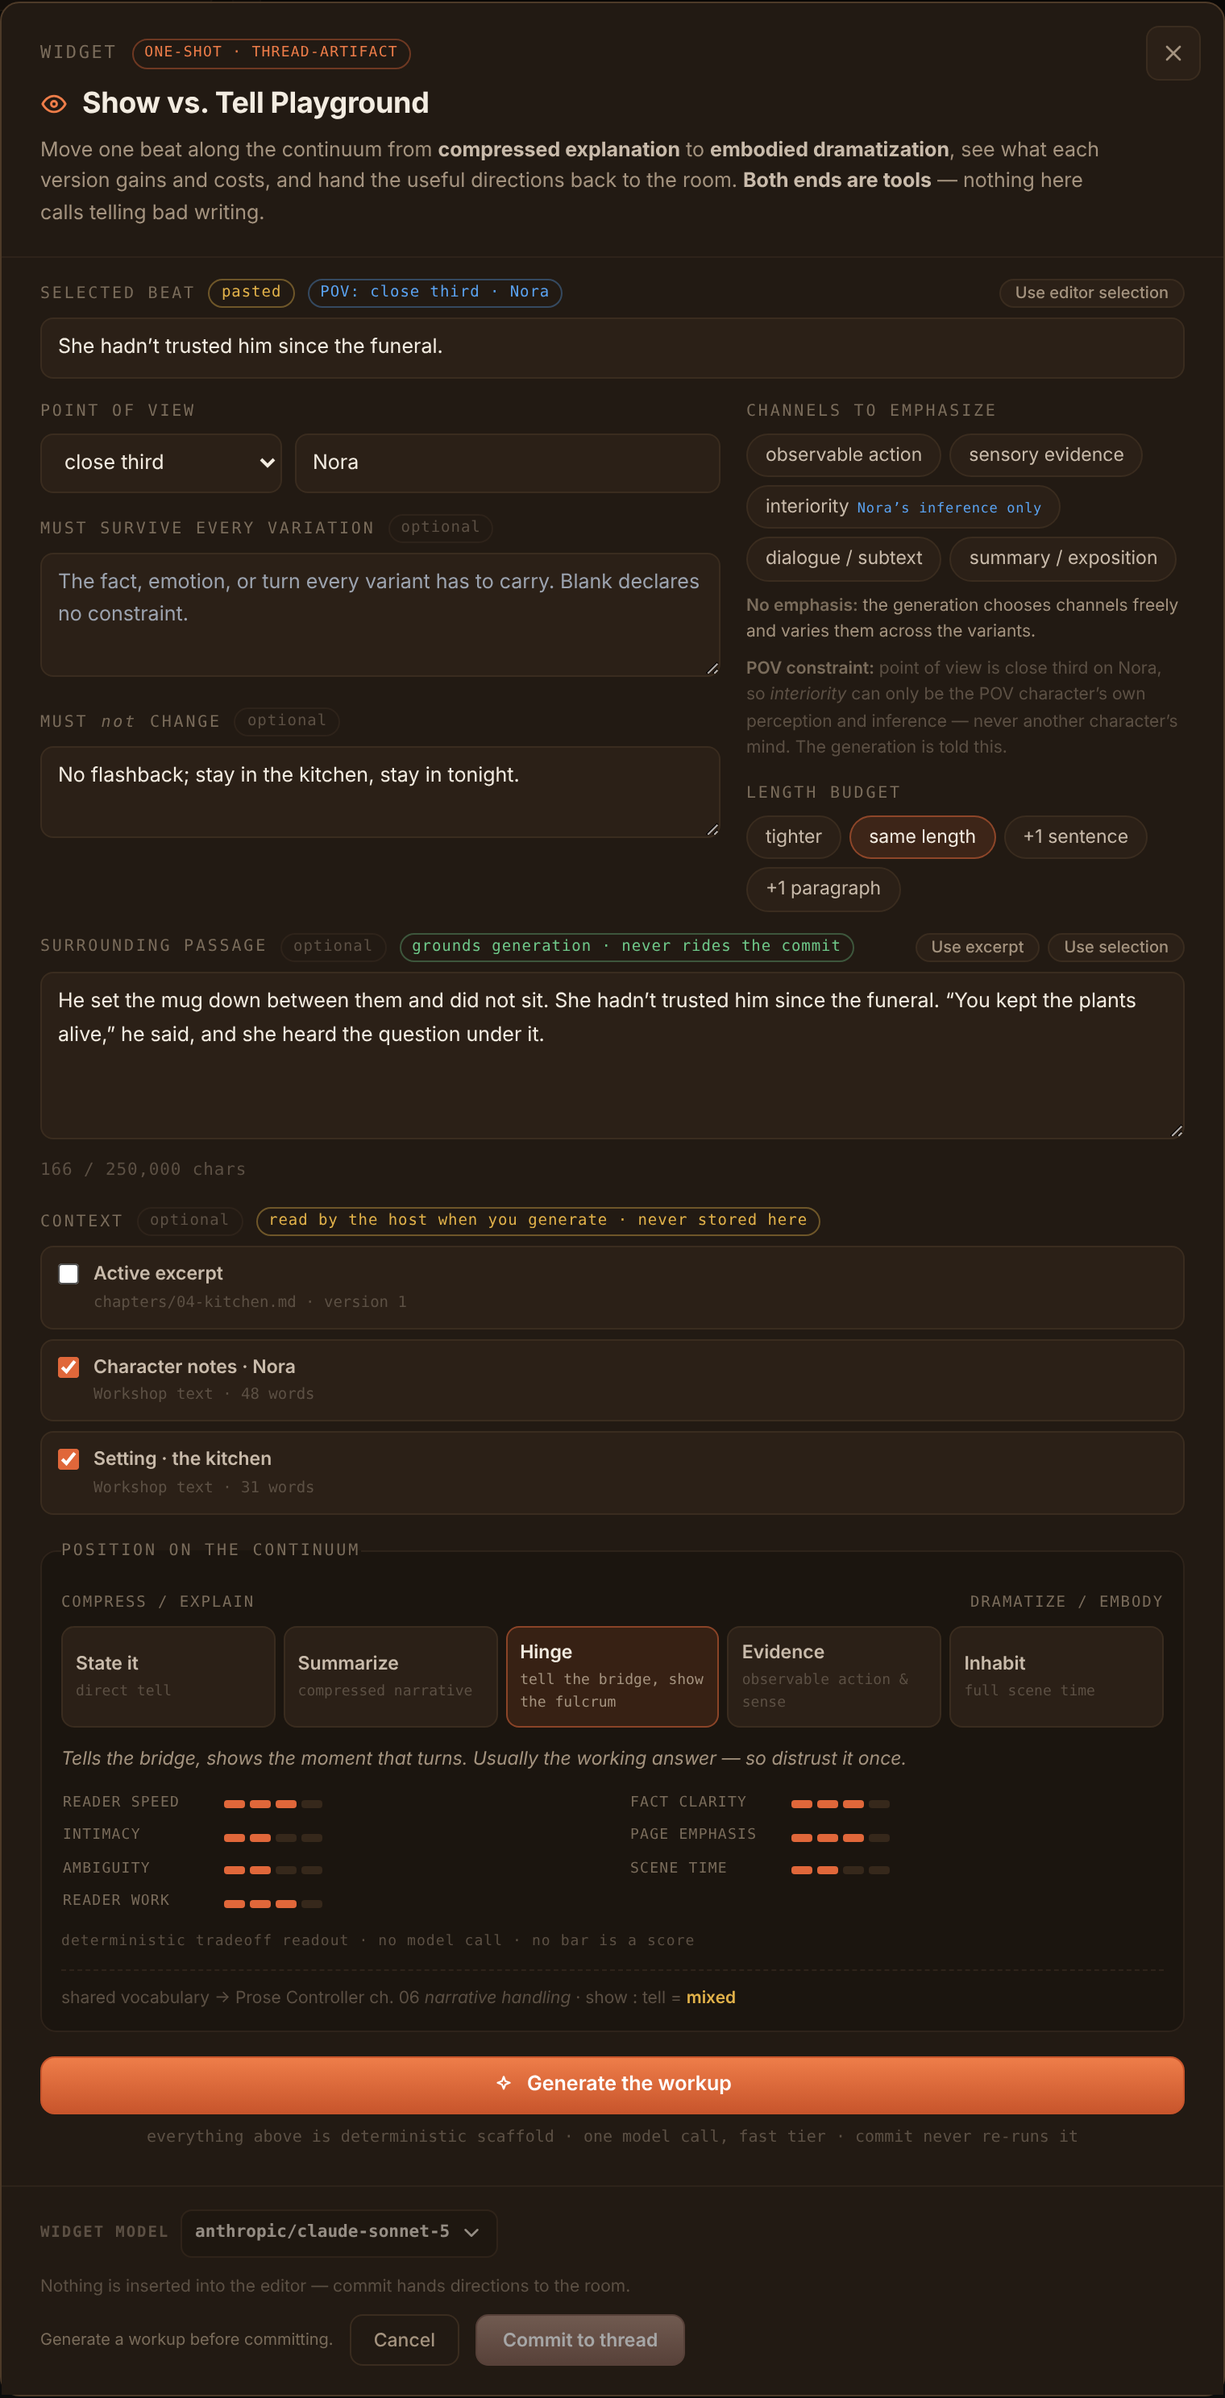
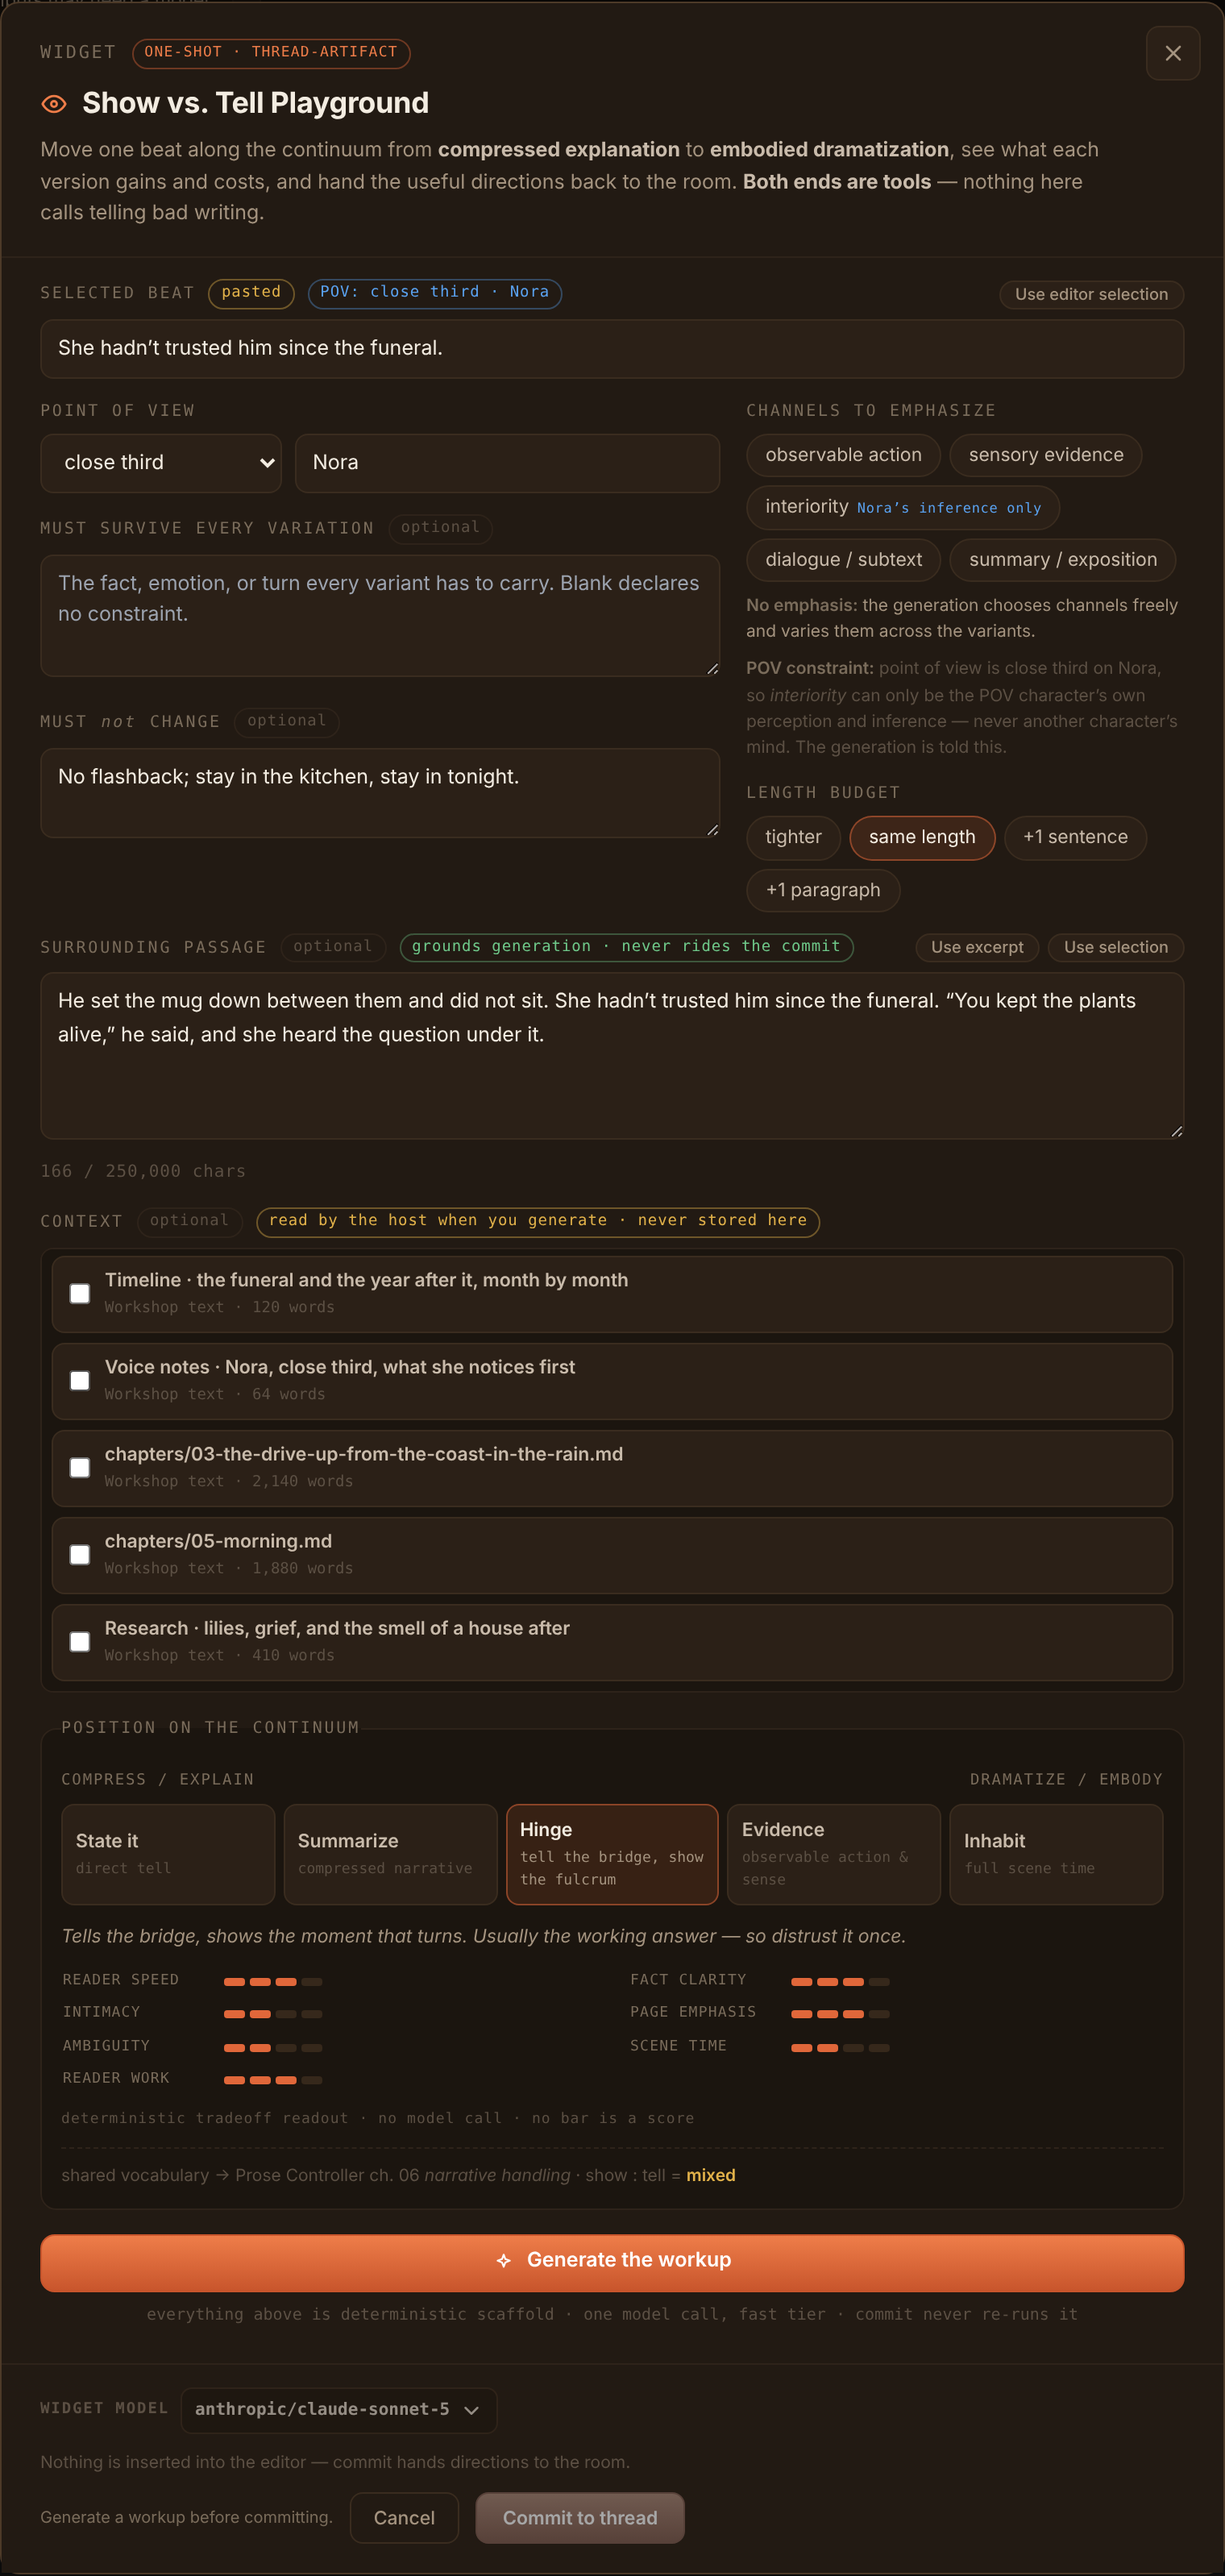
feat(show-vs-tell): cap the Context list as a five-row scrollable well (D2a)
The Context checkbox list sits in a bordered, inset well that grows with
its content up to five rows, then holds at five and scrolls vertically
only; long names and paths truncate with an ellipsis. The cap is CSS
arithmetic over a row-height variable (rows × row height + gaps + padding),
not a magic pixel number; rows are a fixed height because their text
truncates rather than wraps. The well adds no tab stop, every checkbox
stays reachable by Tab, and focusing one scrolls it into view natively.
jsdom cannot compute layout, so the modal test pins the class contract by
reading the stylesheet. Recorded as D2a in the sprint doc and the handoff;
the screenshot now shows eight sources with the well scrolled to focus.

Claude-Session: https://claude.ai/code/session_01ALRCWLhmc5VaxH3sZ6Zg2k

diff --git a/packages/core/src/__tests__/presentation/webview/components/workshop/widgets/showVsTell/WorkshopShowVsTellModal.test.tsx b/packages/core/src/__tests__/presentation/webview/components/workshop/widgets/showVsTell/WorkshopShowVsTellModal.test.tsx
@@ -2,6 +2,8 @@
  * @jest-environment jsdom
  */
 
+import * as fs from 'fs';
+import * as path from 'path';
 import * as React from 'react';
 import { cleanup, fireEvent, render, screen, within } from '@testing-library/react';
 import {
@@ -401,6 +403,63 @@ describe('WorkshopShowVsTellModal', () => {
       expect(budgets[1].getAttribute('aria-checked')).toBe('true');
       fireEvent.click(budgets[3]);
       expect(budgetProps.onLengthBudgetChange).toHaveBeenCalledWith('plus-one-paragraph');
+    });
+  });
+
+  describe('context well (D2a)', () => {
+    const STYLESHEET = path.resolve(
+      __dirname,
+      '../../../../../../../presentation/webview/components/workshop/widgets/showVsTell/showVsTell.css'
+    );
+    const rule = (css: string, selector: string): string => {
+      const start = css.indexOf(`${selector} {`);
+      expect(start).toBeGreaterThan(-1);
+      return css.slice(start, css.indexOf('}', start));
+    };
+
+    it('renders the context list as one labelled group whose well is not a tab stop', () => {
+      renderModal({
+        availableSources: Array.from({ length: 7 }, (_, index) => ({
+          reference: { kind: 'context-attachment' as const, attachmentId: `ctx-${index + 1}` },
+          label: `Note ${index + 1}`,
+          detail: 'Workshop text · 12 words'
+        }))
+      });
+      const group = screen.getByRole('group', { name: /Context/ });
+      const well = group.querySelector('.pm-ws-svt-source-list')!;
+
+      expect(well.getAttribute('data-pm-ws-svt-source-well')).toBe('five-rows');
+      expect(well.hasAttribute('tabindex')).toBe(false);
+      expect(within(group).getAllByRole('checkbox')).toHaveLength(7);
+      for (const box of within(group).getAllByRole('checkbox')) {
+        expect(well.contains(box)).toBe(true);
+        expect((box as HTMLInputElement).tabIndex).toBe(0);
+      }
+    });
+
+    it('caps the well at five rows derived from the row height, scrolls vertically only, and truncates names', () => {
+      // jsdom does not compute stylesheet layout, so this pins the class contract.
+      const css = fs.readFileSync(STYLESHEET, 'utf8');
+      const sources = rule(css, '[data-pm-surface="workshop"] .pm-ws-svt-sources');
+      const well = rule(css, '[data-pm-surface="workshop"] .pm-ws-svt-source-list');
+      const row = rule(css, '[data-pm-surface="workshop"] .pm-ws-svt-source');
+
+      expect(sources).toMatch(/--pm-ws-svt-source-well-rows:\s*5;/);
+      expect(sources).toMatch(/--pm-ws-svt-source-row:\s*\d+px;/);
+      expect(well.replace(/\s+/g, ' ')).toContain(
+        'max-height: calc( var(--pm-ws-svt-source-well-rows) * var(--pm-ws-svt-source-row) + (var(--pm-ws-svt-source-well-rows) - 1) * var(--pm-ws-svt-source-gap) + 2 * var(--pm-ws-svt-source-well-pad) )'
+      );
+      expect(well).toMatch(/overflow-y:\s*auto;/);
+      expect(well).toMatch(/overflow-x:\s*hidden;/);
+      expect(well).toMatch(/border: 1px solid var\(--pm-border-soft\);/);
+      expect(well).toMatch(/background: var\(--pm-inset\);/);
+      expect(well).not.toMatch(/(^|\s)height:/m);
+      expect(row).toMatch(/height: var\(--pm-ws-svt-source-row\);/);
+      for (const part of ['.pm-ws-svt-source b', '.pm-ws-svt-source small']) {
+        const text = rule(css, `[data-pm-surface="workshop"] ${part}`);
+        expect(text).toMatch(/text-overflow: ellipsis;/);
+        expect(text).toMatch(/white-space: nowrap;/);
+      }
     });
   });
 

diff --git a/packages/core/src/presentation/webview/components/workshop/widgets/showVsTell/showVsTell.css b/packages/core/src/presentation/webview/components/workshop/widgets/showVsTell/showVsTell.css
@@ -225,8 +225,18 @@
   color: var(--pm-faint);
 }
 
-/* ---- source references (Gesture-proven pattern) ---- */
+/* ---- context sources (D2a): a scrollable well, at most five rows tall ----
+   The cap is derived from the row height, not a magic pixel number: five rows
+   plus the four gaps between them plus the well's own padding. Rows are a
+   fixed height because their text truncates rather than wraps, so five rows
+   is always the same height. The well scrolls vertically only; it is not a
+   tab stop (no tabindex), and focusing a checkbox inside it scrolls it into
+   view natively. */
 [data-pm-surface="workshop"] .pm-ws-svt-sources {
+  --pm-ws-svt-source-row: 48px;
+  --pm-ws-svt-source-gap: 6px;
+  --pm-ws-svt-source-well-pad: 6px;
+  --pm-ws-svt-source-well-rows: 5;
   min-width: 0;
   margin: 14px 0 0;
   padding: 0;
@@ -238,14 +248,30 @@
 }
 [data-pm-surface="workshop"] .pm-ws-svt-source-list {
   display: grid;
-  gap: 6px;
+  align-content: start;
+  gap: var(--pm-ws-svt-source-gap);
+  box-sizing: border-box;
+  max-height: calc(
+    var(--pm-ws-svt-source-well-rows) * var(--pm-ws-svt-source-row)
+    + (var(--pm-ws-svt-source-well-rows) - 1) * var(--pm-ws-svt-source-gap)
+    + 2 * var(--pm-ws-svt-source-well-pad)
+  );
+  overflow-y: auto;
+  overflow-x: hidden;
+  scroll-padding: var(--pm-ws-svt-source-well-pad);
+  padding: var(--pm-ws-svt-source-well-pad);
+  border: 1px solid var(--pm-border-soft);
+  border-radius: var(--pm-r-input);
+  background: var(--pm-inset);
 }
 [data-pm-surface="workshop"] .pm-ws-svt-source {
   min-width: 0;
+  box-sizing: border-box;
+  height: var(--pm-ws-svt-source-row);
   display: flex;
-  align-items: flex-start;
+  align-items: center;
   gap: 9px;
-  padding: 8px 10px;
+  padding: 0 10px;
   border: 1px solid var(--pm-border);
   border-radius: var(--pm-r-input);
   background: var(--pm-surface-2);
@@ -254,7 +280,7 @@
 }
 [data-pm-surface="workshop"] .pm-ws-svt-source input {
   flex: none;
-  margin: 2px 0 0;
+  margin: 0;
   accent-color: var(--pm-accent);
 }
 [data-pm-surface="workshop"] .pm-ws-svt-source > span {

diff --git a/packages/core/src/presentation/webview/components/workshop/widgets/showVsTell/ShowVsTellSurroundingPanel.tsx b/packages/core/src/presentation/webview/components/workshop/widgets/showVsTell/ShowVsTellSurroundingPanel.tsx
@@ -7,7 +7,9 @@
  * it is a generation input, and it never rides the commit. The context is a
  * multi-select of the room's sources; the host resolves their text when the
  * writer generates, so source text is never stored here. Both mirror
- * Creative Variations' mechanics. Controlled presentation only.
+ * Creative Variations' mechanics. The context list is a scrollable well at
+ * most five rows tall (D2a): the cap lives in the stylesheet, derived from the
+ * row height, and the well is not a tab stop. Controlled presentation only.
  */
 
 import * as React from 'react';
@@ -113,7 +115,7 @@ export const ShowVsTellSurroundingPanel: React.FC<ShowVsTellSurroundingPanelProp
             read by the host when you generate · never stored here
           </em>
         </legend>
-        <div className="pm-ws-svt-source-list">
+        <div className="pm-ws-svt-source-list" data-pm-ws-svt-source-well="five-rows">
           {availableSources.map(({ reference, label, detail }) => {
             const key = showVsTellSourceReferenceKey(reference);
             const selected = selectedKeys.has(key);

diff --git a/.todo/epics/epic-conversation-widgets-2026-07-22/sprints/05-show-vs-tell.md b/.todo/epics/epic-conversation-widgets-2026-07-22/sprints/05-show-vs-tell.md
@@ -614,6 +614,17 @@ the Slice 6 merge `16320d6`).
     invalidates the workup. Position still does not. An unavailable
     reference stays as committed and still blocks Generate.
   - Neither rides the commit. The artifact projection is unchanged.
+  - **D2a (relayed 2026-10-09): the Context list is a scrollable well, at
+    most five rows tall.** The checkbox list sits in a bordered, inset well
+    matching the sheet's other wells; it grows with its content up to five
+    rows, then holds and scrolls vertically; with fewer sources it shrinks to
+    fit; it never scrolls horizontally, and long names and paths truncate
+    with an ellipsis. The list stays a labelled group, every checkbox stays
+    reachable by Tab with the well scrolling to follow focus, and the well
+    adds no tab stop of its own. The cap is derived from the row height
+    (`--pm-ws-svt-source-well-rows` × `--pm-ws-svt-source-row` plus gaps and
+    padding), not a magic pixel number; jsdom cannot compute it, so a test
+    pins the class contract.
   - The recommendation frame gains an optional `surrounding-context` field
     (tag already reserved; capped by the new
     `showVsTellRecommendationContextCharacters`, 20,000) and allows several
@@ -638,8 +649,9 @@ the encoded direction margin of 4, the pronoun-free seed banner, the Slice 4
 commit rail, and the host ceiling re-check.
 
 Rendered from the production webview bundle at Slice 7 (headless Chromium,
-zero channels, blank must survive, excerpt copied into the passage, two
-context sources): [assets/05-show-vs-tell-slice7-sheet.png](assets/05-show-vs-tell-slice7-sheet.png).
+zero channels, blank must survive, excerpt copied into the passage, two of
+eight room sources ticked, the five-row Context well scrolled to keyboard
+focus): [assets/05-show-vs-tell-slice7-sheet.png](assets/05-show-vs-tell-slice7-sheet.png).
 
 **Saved-session safety.** Okey's live sessions hold drafts and seeds in the
 old shape (no `writerText`, at most one reference, must survive required, at

diff --git a/.memory-bank/20261009-2100-show-vs-tell-slice7-design-edits.md b/.memory-bank/20261009-2100-show-vs-tell-slice7-design-edits.md
@@ -67,6 +67,13 @@ Three code commits, each green on its own, then this docs commit.
      `ShowVsTellSurroundingPanel` holds the passage box and the context list.
    - Channels: no lock, no `aria-disabled`, no dimming; a "No emphasis" hint
      shows at zero; the POV-constraint hint stays.
+   - **D2a** (relayed by the orchestrator after the PR opened): the Context
+     list is a bordered, inset, vertically scrolling well capped at five rows.
+     The cap is CSS arithmetic over `--pm-ws-svt-source-row` (48px rows,
+     fixed because names truncate), the gap, and the well padding. The well
+     has no `tabindex`; focus scrolls natively. jsdom cannot compute layout,
+     so `WorkshopShowVsTellModal.test.tsx` pins the class contract by reading
+     the stylesheet.
 
 ## The checkpoint normalization
 
@@ -127,7 +134,7 @@ no Show vs. Tell repair).
 
 - `npm run typecheck`: core, webview, ext clean.
 - `npm run lint`: 0 errors, 1,115 warnings (baseline 1,112; see above).
-- `npm test`: **298 suites / 4,247 tests / 2 snapshots, all passing**
+- `npm test`: **298 suites / 4,249 tests / 2 snapshots, all passing**
   (Slice 6: 296 / 4,190 / 2).
 - `npm run build`: compiled; `verify-bundle` OK.
 - `git diff --check`: clean.

diff --git a/.ai/central-agent-setup.md b/.ai/central-agent-setup.md
@@ -719,7 +719,7 @@ npm run test:tier1
 ```
 
 **Test Inventory** (measured 2026-10-09, Sprint 05 Slice 7):
-- 298 suites / 4,247 tests / 2 snapshots
+- 298 suites / 4,249 tests / 2 snapshots
 - Coverage report saved to `coverage/` (gitignored)
 - Includes `__tests__/architecture/` guards that fail the build on boundary/contract drift
 
